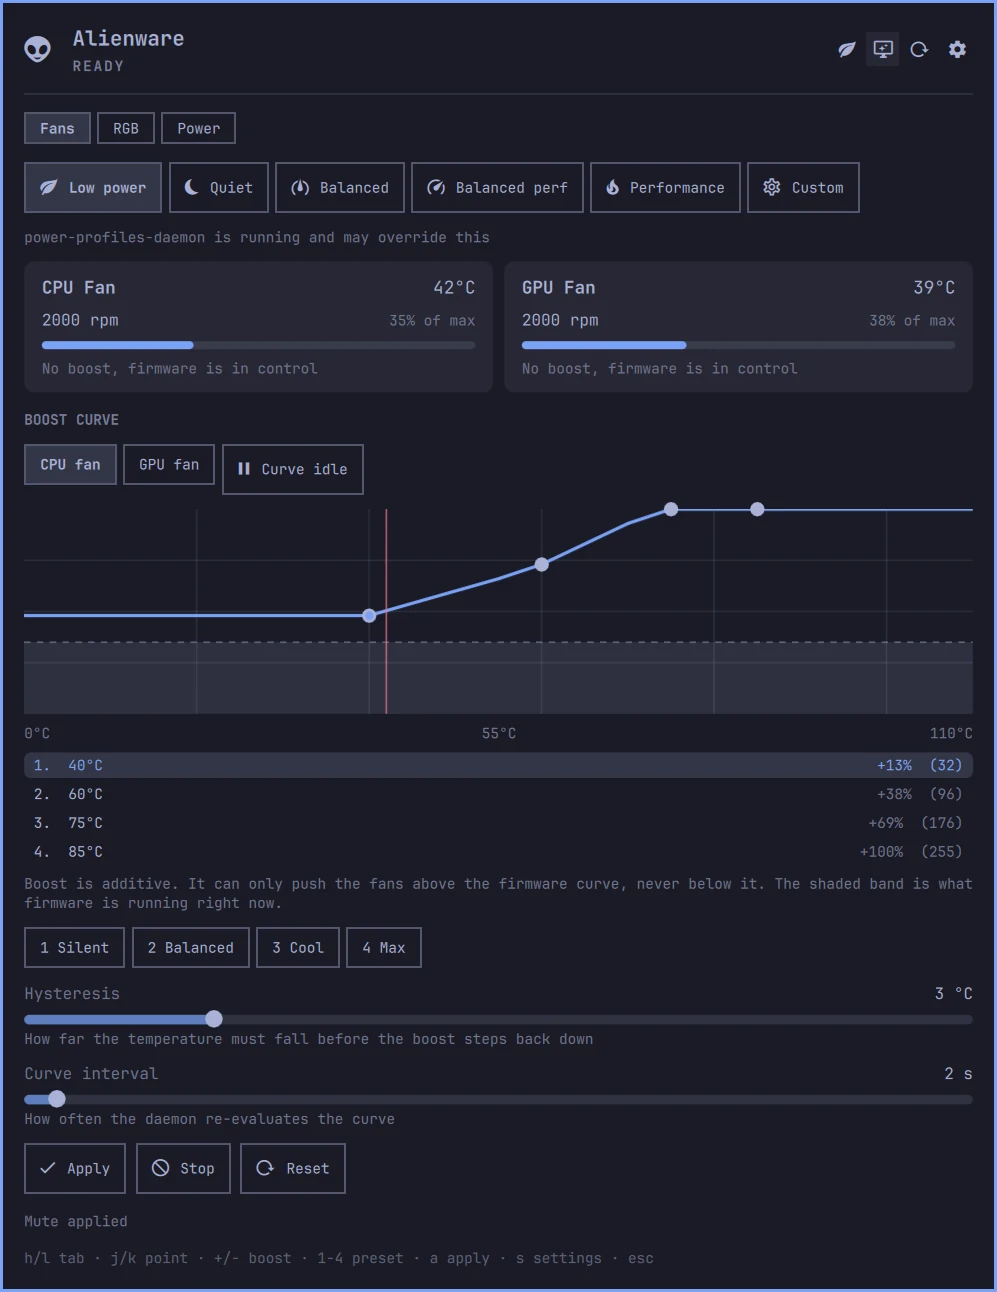
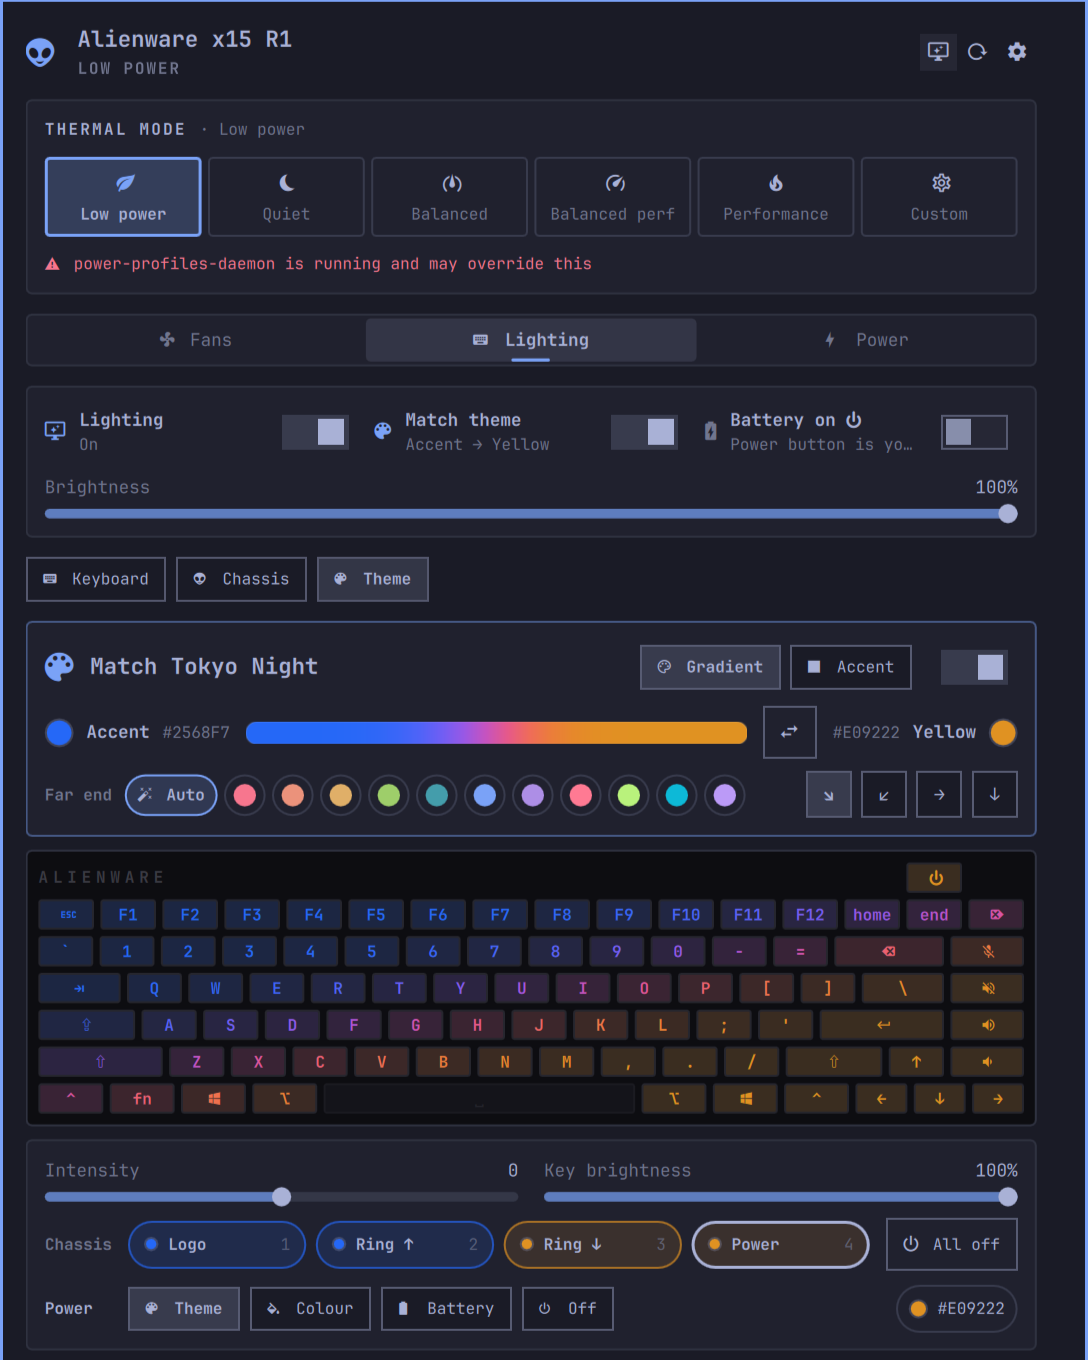
update README.md

Changed region(s): [[0.0, 0.0, 1.0, 1.0], [0.8395, 0.031, 0.9639, 0.0619], [0.4353, 0.4334, 0.5597, 0.4644]]

diff --git a/README.md b/README.md
@@ -1,137 +1,262 @@
 # Alienware FX
 
-An Omarchy 4 shell plugin for fans, lighting and power on Alienware x15 laptops. It is a fork of
-[omarchy-alienware](https://github.com/chr0nzz/omarchy-alienware). The fork adds a **Theme** panel to
-the Lighting tab, which gives the hardware the theme-matched gradient from
-[omarchy-alienfx-plugin](https://github.com/3mrgnc3/omarchy-alienfx-plugin).
+**Fans, power and lighting for Alienware x15 laptops, built into the Omarchy bar. Your keyboard and
+chassis lights match your Omarchy theme.**
 
-## Theme panel
+<p align="center">
+  <img src="docs/images/theme.png" alt="The Alienware FX panel on the Lighting tab, Theme view, painting a blue to amber gradient across the keyboard" width="560">
+</p>
 
-Lighting → Theme (or `H`/`L` until it is selected).
+Alienware FX replaces Alienware Command Center on Omarchy. One click on the bar widget opens a
+panel where you can:
 
-- **Match theme** blends a diagonal gradient from the active Omarchy theme across every key and the
-  chassis. It uses the same algorithm as AlienFX, ported to JS in `ThemeFx.js` and checked against
-  the Python original in `tests/themefx.test.js`:
-  - the near end is the accent
-  - the far end is the most distant saturated hue in the theme
-  - the two are blended in OkLCh with an S-curve and gamut fitting
-- It repaints by itself on `omarchy theme set`, because the plugin watches `theme.generation`.
-- **Chassis lights** (Logo, Ring ↑, Ring ↓, Power): click one, or press `1`-`4`, to select it. The row
-  below then sets that light on its own, while everything else keeps matching the theme:
+- **Change thermal modes** and shape the fan curve
+- **Tune CPU power limits** and turbo
+- **Paint the lights**: a gradient that follows your theme, your own colours per key, or one colour
+  per chassis light
+
+Everything is keyboard friendly, and the panel shows exactly what the hardware is doing.
+
+> [!NOTE]
+> This is a fork of [omarchy-alienware](https://github.com/chr0nzz/omarchy-alienware). It adds the
+> Theme lighting panel, which uses the colour matching from
+> [omarchy-alienfx-plugin](https://github.com/3mrgnc3/omarchy-alienfx-plugin) on top of the same
+> hardware helper.
+
+## Highlights
+
+| | |
+|---|---|
+| 🎨 **Lights that match your theme** | Run `omarchy theme set` and the keyboard and chassis repaint themselves with a smooth gradient between the theme's accent and its most contrasting colour. |
+| 💡 **Each chassis light is yours to set** | The lid logo, the two light rings and the power button can each follow the theme, take your own colour, or turn off. The power button can also show the battery state. |
+| ⌨ **Per key colour** | Paint single keys or drag across a row. The panel keeps a live map of the keyboard. |
+| 🌀 **Fan curve** | A boost curve on top of the firmware's own, with presets from Silent to Max. |
+| ⚡ **Thermal modes and power** | Switch from Low power to Performance, set CPU power limits and turn turbo on or off. |
+| 🔇 **Mute keys that tell the truth** | The mic and speaker mute keys glow red while muted. |
+| 😴 **Survives suspend** | Lighting and the thermal mode come back after sleep. |
+
+## A quick tour
+
+### In the bar
+
+<img src="docs/images/bar-widget.png" alt="The bar widget showing the CPU temperature, 42 degrees" height="28">
+
+The widget shows the CPU temperature by default and switches to the urgent colour when the machine runs hot. Click it to
+open the panel. In the widget settings you can show other readouts instead: the thermal mode, the GPU
+temperature, fan speed or GPU power.
+
+### Lighting → Theme
+
+<p align="center">
+  <img src="docs/images/picker.png" alt="The Theme view with the top ring selected and the colour picker open" width="560">
+</p>
+
+Turn on **Match theme** and the lights take the current theme's colours.
+
+**The gradient**
+- **Gradient** blends two colours diagonally across the keyboard and chassis. **Accent** paints
+  everything in the theme's accent colour.
+- Pick the gradient's direction with the arrows (↘ ↙ → ↓). Swap the two ends with ⇄, or choose the
+  far end yourself from the theme's colour dots.
+- **Intensity** makes the colours softer or more vivid. **Key brightness** dims the keyboard without
+  touching the chassis.
+
+**Each chassis light**
+- Click **Logo**, **Ring ↑**, **Ring ↓** or **Power** to select it, then choose its mode:
   - **Theme**: the colour from the gradient
-  - **Colour**: your own colour, picked with the colour wheel
-  - **Battery**: the power button only, shows the battery state
+  - **Colour**: your own colour from the colour wheel, which updates live while you drag
+  - **Battery**: power button only; green while charging, orange on battery, red below 10%
   - **Off**
+- The other lights keep matching the theme, including after you change themes.
 
-  `p` cycles the selected light's mode, `c` opens its colour picker, `x` turns it off or on, and `a`
-  toggles every chassis light.
-- **Style** is either Gradient or Accent (every light gets the accent). **Direction** is one of
-  ↘ ↙ → ↓. **Intensity** runs from -10 to +10. **Key brightness** dims only the keyboard. **Far end**
-  is Auto or any colour from the theme. Keyboard shortcuts: `w` swaps the ends, `d` changes the
-  direction, `[`/`]` changes the intensity.
-- The theme layer never overwrites your own colours. Turn it off and your custom layout comes back.
-  Painting a key or region on the other tabs keeps the gradient you see and switches theme mode off.
+Your own layout is never lost. Turn Match theme off and your hand-painted colours come back.
 
-IPC: `omarchy-shell alienwarefx rgb <theme|theme-off|theme-toggle|chassis-off|chassis-on|axis|intensity> [value]`.
-Each chassis light is also an action: `rgb <power|logo|ring-top|ring-bottom> <theme|custom|off|RRGGBB>`.
-`battery` works for `power` only.
+### Lighting → Keyboard and Chassis
 
+<p align="center">
+  <img src="docs/images/keyboard.png" alt="The Keyboard view with the per key map and colour wheel" width="420">
+  <img src="docs/images/chassis.png" alt="The Chassis view with the lid logo and light rings" width="420">
+</p>
 
-Two parts: a Quickshell plugin that runs unprivileged, and `alienwarectl`, a Go binary that is both
-a root D-Bus daemon and a user-side CLI.
+- **Keyboard:** click or drag across keys, pick a colour, and press **Apply**. A key can also be
+  turned off on its own.
+- **Chassis:** the same, for the lid logo and the two rings.
+- **Painting with theme mode on:** your colours start from the gradient you were looking at, and
+  painting switches theme mode off.
 
-- Fan speeds, temperatures, GPU draw and power limits in the bar
-- Thermal profiles, CPU turbo, RAPL limits and an additive fan curve
-- Chassis RGB, four regions, and per key keyboard lighting
-- Follows the Omarchy theme, shows mute state on the mute keys, and restores itself after a suspend
+### Fans
 
-Tested on an Alienware x15 R2. Other models in the family differ, in particular the lighting zone
-ids and the keyboard index map.
+<p align="center">
+  <img src="docs/images/fans.png" alt="The Fans tab with CPU and GPU fan readouts and the boost curve" width="560">
+</p>
+
+**Live readouts**
+- Fan speed and temperature for both fans.
+
+**Boost curve**
+- Adds speed on top of the firmware's own curve, so the fans can only run faster than firmware wants,
+  never slower.
+- Drag the points, or start from a preset (**Silent**, **Balanced**, **Cool**, **Max**).
+- **Hysteresis** stops the fans from hunting around a threshold.
+
+### Power
+
+<p align="center">
+  <img src="docs/images/power.png" alt="The Power tab with temperatures, CPU power limits and Intel turbo" width="560">
+</p>
+
+- **Readouts:** CPU and GPU temperatures, GPU power and fan speeds at a glance.
+- **CPU power limits:** set the long-term (PL1) and short-term (PL2) limits, when the firmware allows it.
+- **Turbo:** turn Intel turbo boost on or off.
+
+The thermal mode buttons at the top of every tab switch between **Low power**, **Quiet**,
+**Balanced**, **Balanced perf**, **Performance** and **Custom**.
+
+## Requirements
+
+| Requirement | Details |
+|---|---|
+| Omarchy | Omarchy 4 with the Omarchy shell |
+| Laptop | Alienware x15. It is tested on an x15 R1 and the upstream plugin on an x15 R2. Other models may use different lighting zones and keyboard layouts. |
+| Helper | `alienwarectl`, which reaches the hardware. The plugin itself runs without root. |
 
 ## Install
 
-The plugin and the helper install separately.
+1. **Add the plugin:**
 
+   ```sh
+   omarchy plugin add https://github.com/ilmcconnell/omarchy-alienware-plus-fx.git --enable
+   ```
+
+2. **Install the hardware helper** (a prebuilt binary, so no Go toolchain is needed):
+
+   ```sh
+   cd ~/.config/omarchy/plugins/ilm.alienware-fx/packaging/bin
+   makepkg -si
+   sudo systemctl enable --now alienwarectl.service
+   ```
+
+   Or open the panel and press **Install the helper**. It runs the same commands in a terminal, so
+   you can read them first. To build the helper from source instead, run `makepkg -si` in
+   `packaging/`.
+
+3. **Optional: a keybinding.** Add this to `~/.config/hypr/bindings.lua`:
+
+   ```lua
+   o.bind("SUPER SHIFT", "A", "Alienware", "omarchy-shell shell summon ilm.alienware-fx '{}'")
+   ```
+
+> [!TIP]
+> Already running the original `xyzlab.alienware` plugin or AlienFX? Turn them off so they don't
+> fight over the lights:
+>
+> ```sh
+> omarchy plugin disable xyzlab.alienware
+> omarchy plugin disable 3mrgnc3.alienfx
+> ```
+
+## Keyboard shortcuts
+
+While the panel is open:
+
+| Where | Keys |
+|---|---|
+| Everywhere | `h`/`l` switch tab · `s` settings · `r` refresh · `esc` close |
+| Fans | `p` thermal mode · `j`/`k` choose a point · `+`/`-` boost · `1`-`4` preset · `f` CPU/GPU fan · `a` apply · `x` stop |
+| Lighting | `H`/`L` Keyboard/Chassis/Theme · `t` match theme · `o` all lighting on/off · `b` battery on power |
+| Keyboard, Chassis | `c` colour · `p` selection on/off · `j`/`k` and `space` choose regions · `i` identify a region |
+| Theme | `d` direction · `w` swap ends · `[`/`]` intensity · `-`/`+` key brightness · `1`-`4` pick a light · `p` light mode · `c` light colour · `x` light on/off · `a` all chassis lights |
+| Power | `p` thermal mode · `1`-`4` mode · `j`/`k` choose a field · `+`/`-` adjust · `t` turbo |
+
+The panel footer always lists the keys for the view you're on.
+
+## Command line
+
+Everything in the panel can be scripted, for example from a keybinding or a hook:
+
+```sh
+omarchy-shell alienwarefx status                    # JSON with fans, temps, profile and lighting
+omarchy-shell alienwarefx profile performance       # switch thermal mode
+omarchy-shell alienwarefx curve cool                # apply a fan preset (silent, balanced, cool, max)
+omarchy-shell alienwarefx turbo off                 # on, off or toggle
+
+omarchy-shell alienwarefx rgb theme ""              # match the theme
+omarchy-shell alienwarefx rgb axis lr               # tl-br, tr-bl, lr or tb
+omarchy-shell alienwarefx rgb intensity 4           # -10 to 10
+omarchy-shell alienwarefx rgb logo FF0040           # one chassis light: theme, custom, off or a colour
+omarchy-shell alienwarefx rgb power battery         # the power button can also show the battery
+omarchy-shell alienwarefx rgb chassis-off ""        # every chassis light off
+omarchy-shell alienwarefx rgb off ""                # all lighting off (on, toggle)
+
+omarchy-shell alienwarefx open                      # show the panel (close hides it)
 ```
-omarchy plugin add https://github.com/chr0nzz/omarchy-alienware.git --enable
 
-cd ~/.config/omarchy/plugins/ilm.alienware-fx/packaging/bin
-makepkg -si
-sudo systemctl enable --now alienwarectl.service
-```
-
-Or open the panel and press "Install the helper", which runs the same commands in a terminal so
-you can see them before they run.
-
-That installs the prebuilt binary from the latest release. It needs no Go toolchain and takes
-seconds. To build from source instead, run `makepkg -si` in `packaging/` rather than
-`packaging/bin/`. Both install the same eight files and either can be removed with `pacman -Rns`.
-
-The plugin must be a real directory. The shell's inotify watcher does not follow symlinks, which is
-why the package does not ship the plugin itself.
+Commands that take no value still need the empty `""` argument.
 
 ## Update
 
-```
+```sh
 omarchy plugin update ilm.alienware-fx
-
-cd ~/.config/omarchy/plugins/ilm.alienware-fx/packaging/bin
-makepkg -si
-sudo systemctl restart alienwarectl.service
+omarchy restart shell
 ```
 
-The QML side hot-reloads on save, so a plugin update needs nothing more than `omarchy restart shell`.
-The helper does not. Both packages install a published release, never your working tree, so a helper
-change is only live once a release exists and you have rebuilt. Check what is actually running with
-`alienwarectl version`.
+To update the helper too, run `makepkg -si` in `packaging/bin` again and then
+`sudo systemctl restart alienwarectl.service`. `alienwarectl version` shows which helper is running.
 
 ## Uninstall
 
-Blank the lighting first. Removing the package does not turn the leds off, and afterwards there is
-nothing left to turn them off with.
+Turn the lights off first. Once the helper is gone, nothing is left to turn them off with.
 
-```
+```sh
 alienwarectl kbd off
 alienwarectl rgb off
 
 sudo systemctl disable --now alienwarectl.service
-sudo pacman -Rns omarchy-alienware omarchy-alienware-debug
-
+sudo pacman -Rns omarchy-alienware-bin
 omarchy plugin remove ilm.alienware-fx
 ```
 
-The udev rule keeps applying until a reboot, or `sudo udevadm control --reload && sudo udevadm
-trigger`. Your saved colours and settings stay behind in
-`~/.local/state/omarchy/alienware/state.json`.
+If you built the helper from source, the package is `omarchy-alienware` instead.
 
-## Keybind
+Your colours and settings stay in `~/.local/state/omarchy/alienware-fx/` in case you come back.
 
-Add to `~/.config/hypr/bindings.lua`:
+## Troubleshooting
 
-```lua
-o.bind("SUPER SHIFT", "A", "Alienware", "omarchy-shell shell summon ilm.alienware-fx '{}'")
-```
+- **The panel won't close.** It holds the keyboard while it is open. Click outside it, press `esc`,
+  or run `omarchy-shell alienwarefx close`.
+- **"power-profiles-daemon is running and may override this".** That service can change the thermal
+  mode behind your back. Disable it if you want the mode you pick here to stick.
+- **The lights didn't change after an update.** Run `omarchy restart shell` so the shell loads the
+  new panel.
 
-## If the panel will not close
+## How the theme gradient works
 
-It takes exclusive keyboard focus while it is open, so a wedged panel can look like a wedged
-machine. It is not. Either of these closes it, and neither needs the keyboard focus back:
+The colour picking is a JavaScript port of AlienFX's Python engine. It is checked against values from
+the original, so both give the same colours for the same theme. All of it lives in `ThemeFx.js`, with
+tests in `tests/themefx.test.js`.
 
-```
-omarchy-shell alienwarefx close
-omarchy-shell shell hide ilm.alienware-fx
-```
+1. **The near end** is the theme's accent colour.
+2. **The far end** is the saturated colour in the palette whose hue is furthest from the accent. On a
+   single-colour theme, it is the accent's complement instead.
+3. **Intensity** sets the saturation of both ends.
+4. **Blending** happens in OkLCh, a colour space where equal steps look equal to the eye. An S-curve
+   holds each end colour for longer, and colours are clamped to what the LEDs can show.
+5. **Each key and light** takes its colour from where it sits on the chosen diagonal.
 
-Clicking anywhere outside the panel closes it too, and `esc` closes it unless a text field has
-focus, in which case the first `esc` leaves the field and the second closes the panel.
-
-## Docs
+## More documentation
 
 | | |
 |---|---|
+| [Hardware](docs/hardware.md) | The two lighting controllers, the region map and the privilege model |
+| [Behaviour](docs/behaviour.md) | Suspend and resume, the mute indicator, thermal profiles, G-Mode |
+| [CLI](docs/cli.md) | Every `alienwarectl` command |
+| [Key map](docs/KEYMAP.txt) | The measured keyboard LED map |
 | [Roadmap](docs/roadmap.md) | What works and what is planned |
-| [Hardware](docs/hardware.md) | The two lighting controllers, the region map, the privilege model |
-| [Behaviour](docs/behaviour.md) | Suspend and resume, mute indicator, thermal profiles, G-Mode |
-| [CLI](docs/cli.md) | Every `alienwarectl` verb |
-| [Key map](docs/KEYMAP.txt) | The measured keyboard index map |
 | [Development](docs/development.md) | Tests and releases |
+
+## Credits and licence
+
+MIT licensed. Built on [omarchy-alienware](https://github.com/chr0nzz/omarchy-alienware) by xyzlab,
+which provides the panel, the fan and power controls, and the `alienwarectl` helper. The theme
+gradient is ported from [omarchy-alienfx-plugin](https://github.com/3mrgnc3/omarchy-alienfx-plugin)
+by 3mrgnc3. Both are MIT licensed.
